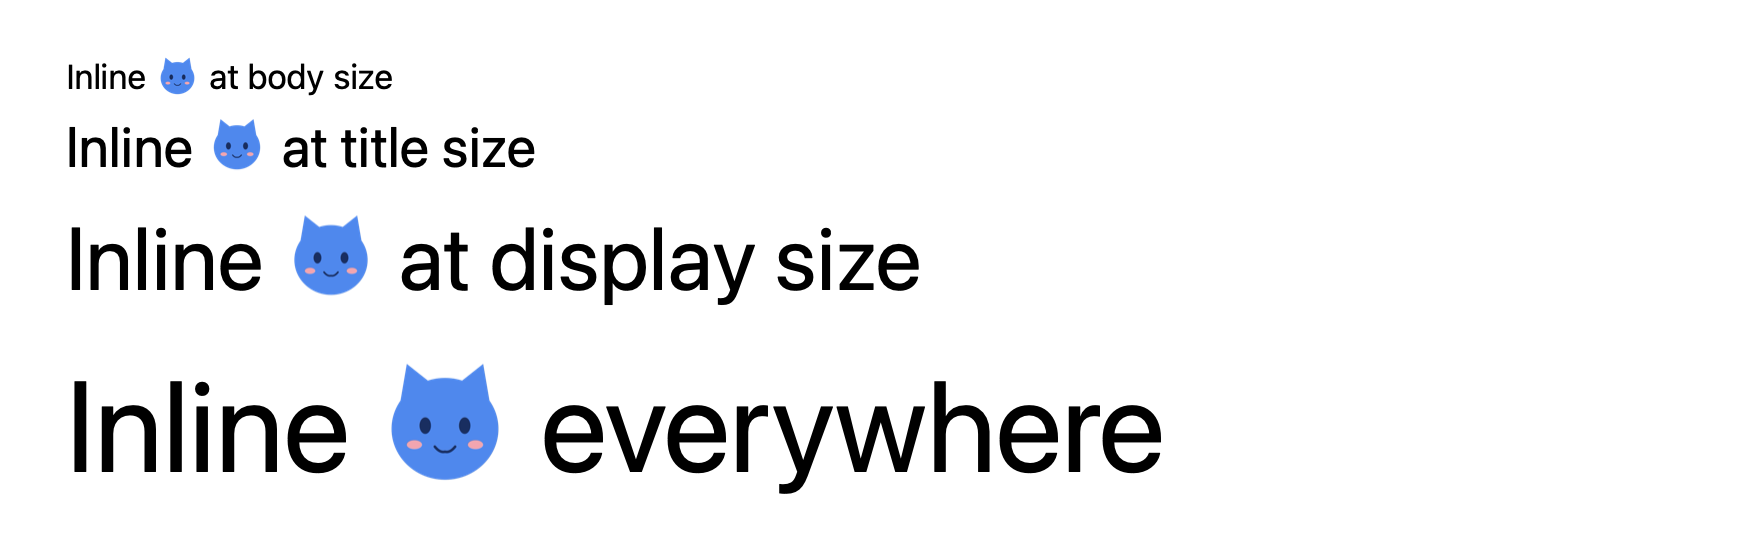
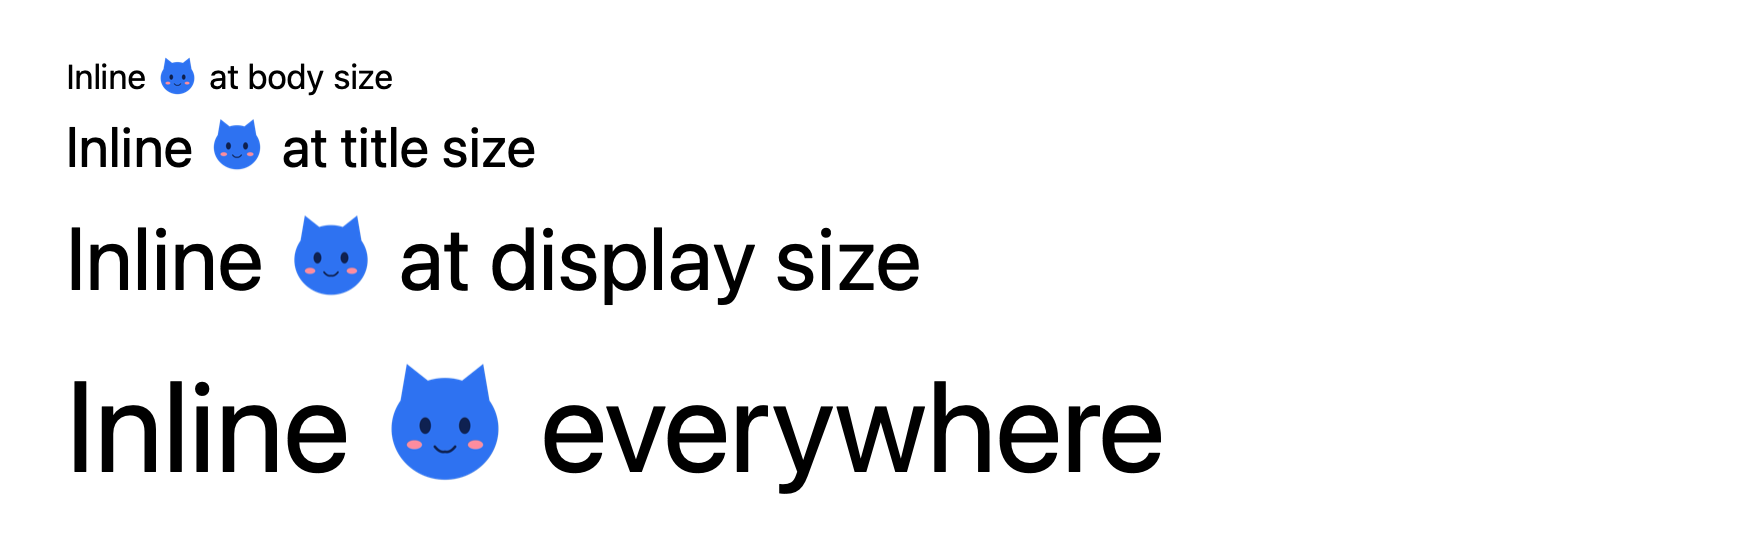
AdaptiveGlyphKit: Render AppKit tests windowless to unblock hosted CI
The first hosted run hung for two hours inside plain swift test with zero
test output: AppKitRenderTests created an NSWindow, and the window-server
connection that requires blocks forever in an unbundled swiftpm-testing
process on hosted runners (the runner later killed the orphaned test host).
cacheDisplay renders the view hierarchy without a window, and the rendering
assertions still pass, so drop the NSWindow from the tests and from
generate-readme-images.swift (README images regenerated; the render helper
now returns PNG bytes to stay Sendable-clean).

Also add timeout-minutes to every CI and release job so a future hang fails
in minutes instead of consuming the six-hour default, and let new pushes to
a ref cancel superseded in-progress CI runs.

Claude-Session: https://claude.ai/code/session_018BWBC6T2K8oD1uHZKsGJgB

diff --git a/Scripts/generate-readme-images.swift b/Scripts/generate-readme-images.swift
@@ -111,7 +111,7 @@ func forgedContent(_ image: CGImage) throws -> Data {
 
 @MainActor
 func render(lines: [(text: String, pointSize: CGFloat)], glyph: NSAdaptiveImageGlyph, width: CGFloat)
-  throws -> NSBitmapImageRep
+  throws -> Data
 {
   let storage = NSMutableAttributedString()
   for (index, line) in lines.enumerated() {
@@ -156,23 +156,18 @@ func render(lines: [(text: String, pointSize: CGFloat)], glyph: NSAdaptiveImageG
   let frame = NSRect(x: 0, y: 0, width: width, height: ceil(used.height) + padding * 2)
   textView.frame = frame
 
-  let window = NSWindow(
-    contentRect: frame, styleMask: [.borderless], backing: .buffered, defer: false)
-  window.contentView = textView
+  // No NSWindow: cacheDisplay renders the view hierarchy without one, and a
+  // window needs a window-server connection that CI environments may not have.
   textView.layoutSubtreeIfNeeded()
 
   guard let rep = textView.bitmapImageRepForCachingDisplay(in: textView.bounds) else {
     throw ImageGenerationError.cannotSnapshot
   }
   textView.cacheDisplay(in: textView.bounds, to: rep)
-  return rep
-}
-
-func writePNG(_ rep: NSBitmapImageRep, to url: URL) throws {
-  guard let data = rep.representation(using: .png, properties: [:]) else {
+  guard let png = rep.representation(using: .png, properties: [:]) else {
     throw ImageGenerationError.cannotEncode
   }
-  try data.write(to: url, options: .atomic)
+  return png
 }
 
 // MARK: Main
@@ -197,7 +192,8 @@ let inline = try await MainActor.run {
     glyph: glyph,
     width: 880)
 }
-try writePNG(inline, to: outputDirectory.appendingPathComponent("inline-glyph.png"))
+try inline.write(
+  to: outputDirectory.appendingPathComponent("inline-glyph.png"), options: .atomic)
 
 let sizes = try await MainActor.run {
   try render(
@@ -210,6 +206,7 @@ let sizes = try await MainActor.run {
     glyph: glyph,
     width: 880)
 }
-try writePNG(sizes, to: outputDirectory.appendingPathComponent("dynamic-type.png"))
+try sizes.write(
+  to: outputDirectory.appendingPathComponent("dynamic-type.png"), options: .atomic)
 
 print("wrote inline-glyph.png and dynamic-type.png to \(outputDirectory.path)")

diff --git a/Tests/AdaptiveGlyphKitTests/AppKitRenderTests.swift b/Tests/AdaptiveGlyphKitTests/AppKitRenderTests.swift
@@ -26,9 +26,9 @@
       textView.font = .systemFont(ofSize: 40)
       textView.textStorage?.setAttributedString(attributed)
 
-      let window = NSWindow(
-        contentRect: frame, styleMask: [.borderless], backing: .buffered, defer: false)
-      window.contentView = textView
+      // No NSWindow: cacheDisplay renders the view hierarchy without one, and
+      // creating a window needs a window-server connection that hangs forever
+      // in unbundled `swift test` processes on hosted CI runners.
       textView.layoutSubtreeIfNeeded()
 
       guard let rep = textView.bitmapImageRepForCachingDisplay(in: textView.bounds) else { return -1 }